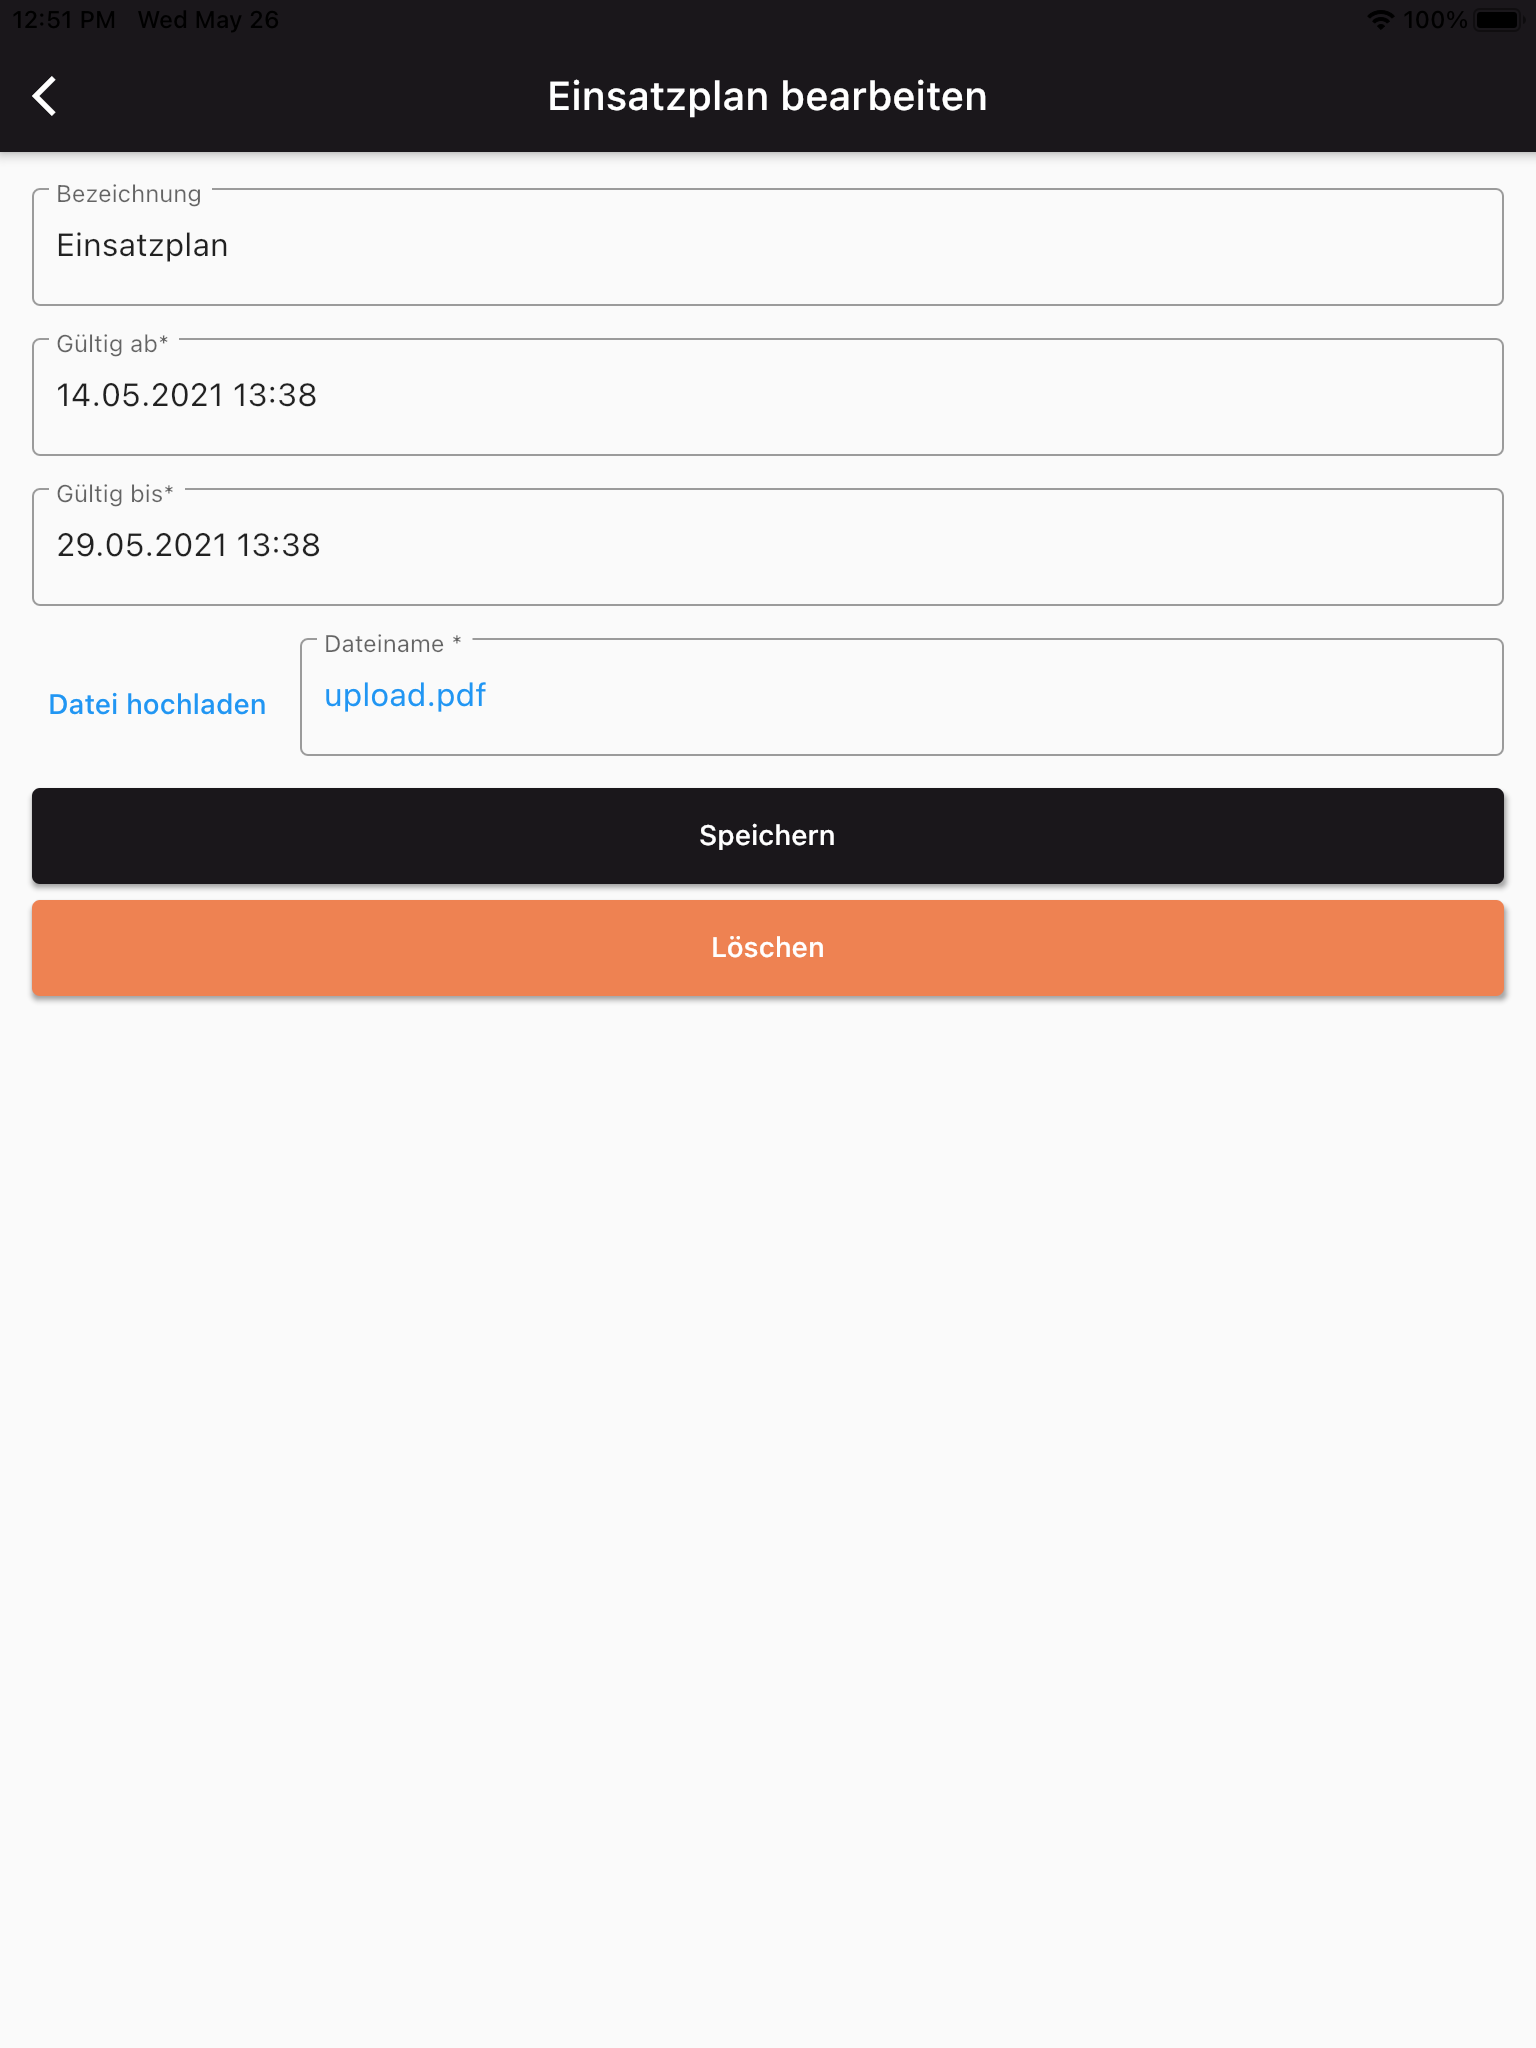
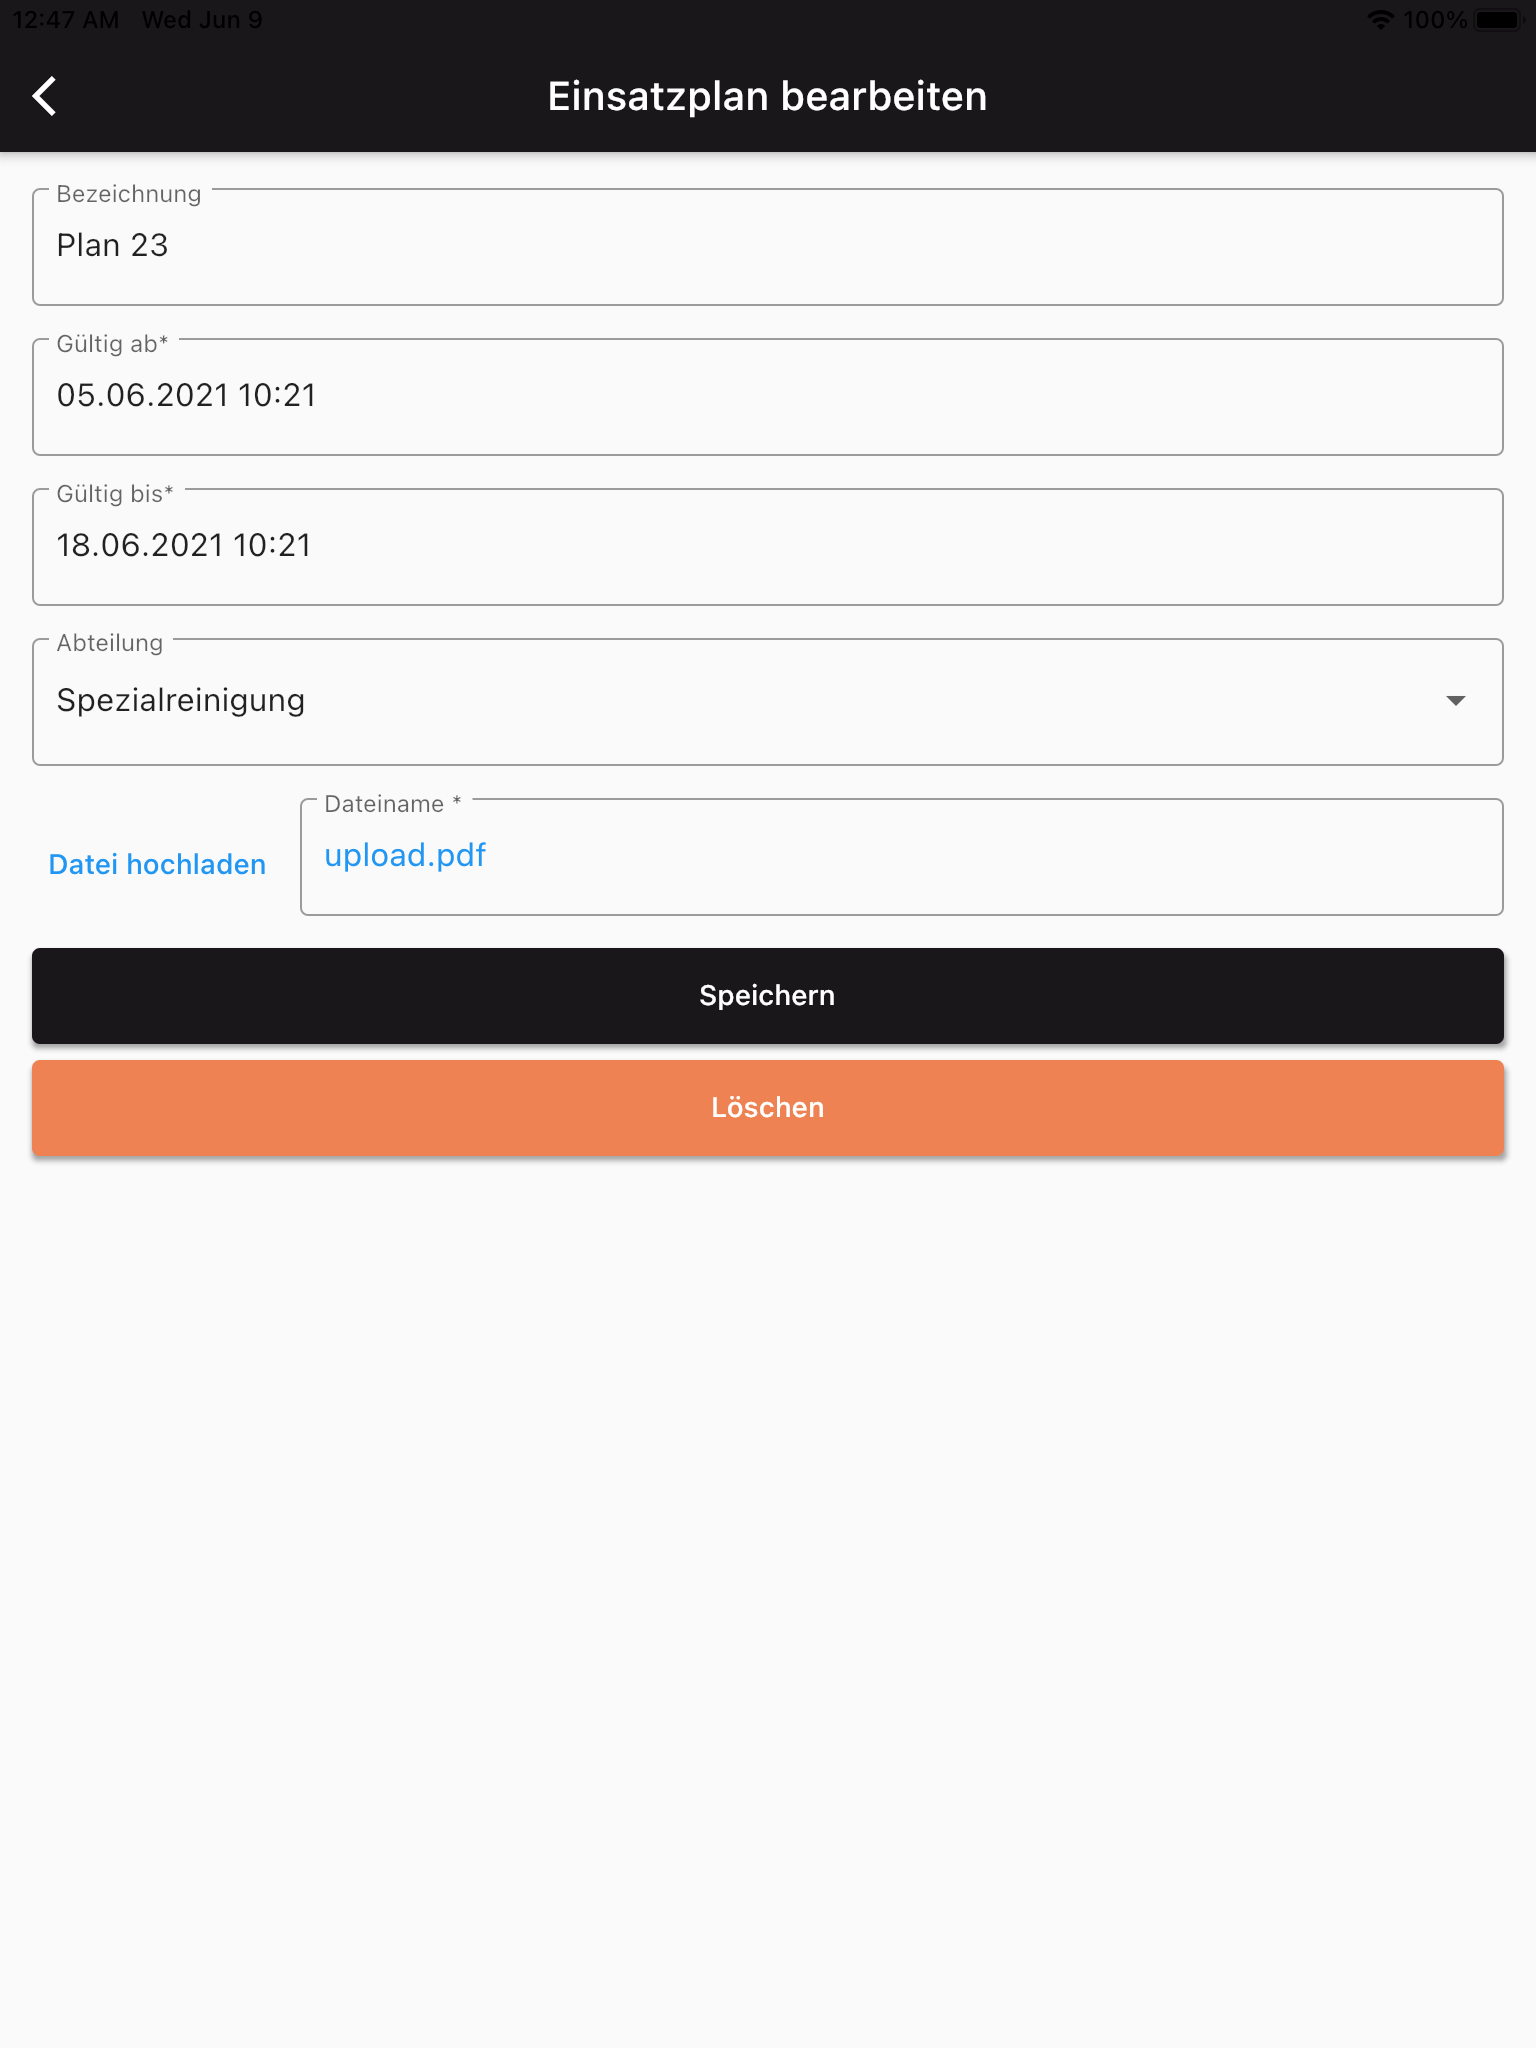
Prepare release 0.3.0 for iOS

diff --git a/pronto_mia/lib/ui/views/deployment_plan/overview/deployment_plan_overview_view.dart b/pronto_mia/lib/ui/views/deployment_plan/overview/deployment_plan_overview_view.dart
@@ -25,7 +25,7 @@ class DeploymentPlanOverviewView extends StatelessWidget {
           adminModeEnabled: adminModeEnabled,
         ),
         builder: (context, model, child) => NavigationLayout(
-          title: adminModeEnabled ? 'Einsatplanverwaltung' : 'Einsatzpläne',
+          title: adminModeEnabled ? 'Einsatzplanverwaltung' : 'Einsatzpläne',
           body: _buildDataView(context, model),
           actions: [
             if (adminModeEnabled)

diff --git a/CHANGELOG.md b/CHANGELOG.md
@@ -6,6 +6,24 @@ and this project adheres to [Semantic Versioning](https://semver.org/spec/v2.0.0
 
 ## [Unreleased]
 
+## [0.3.0] - 2021-06-09
+
+### Added
+- Ability to create, edit and delete departments
+- Ability to create, edit and delete users
+- Ability for users to logout
+- Ability for users to change their password
+- Authorization that limits what users can do and view
+
+### Changed
+- Improved error handling
+
+### Removed
+- Items in the navigation that are not yet implemented
+
+### Fixed
+- Several bugs
+
 ## [0.2.0] - 2021-05-18
 
 ### Added
